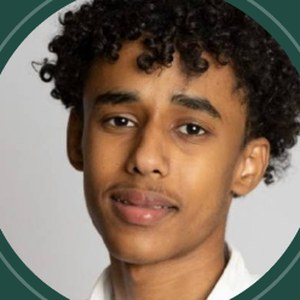
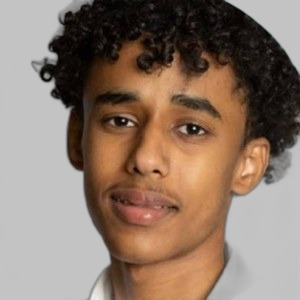
Accueil : carte de profil et globe 3D retravaillé
- Photo nettoyée (plus de cercle vert) dans une carte de profil
  qui s'incline vers la souris, avec un reflet de lumière
- Globe : profondeur réelle (tri avant/arrière), anneaux de latitude,
  serveurs qui émettent une onde, paquets avec traînée
- Le globe peut être attrapé et lancé à la souris ou au doigt (inertie)

Claude-Session: https://claude.ai/code/session_012Wnei2QmJHcgeZpE7yB1x4

diff --git a/script.js b/script.js
@@ -288,116 +288,172 @@ window.addEventListener("scroll", function () {
 }, { passive: true });
 
 /* =====================================================================
-   15. GLOBE RÉSEAU EN 3D
-   Des points répartis sur une sphère (les équipements), reliés à leurs
-   voisins (les câbles). Des paquets de données circulent sur les liens.
-   La sphère tourne seule, suit la souris et accélère quand on scrolle.
-   Principe 3D : on fait tourner chaque point (x, y, z) avec un peu de
-   trigonométrie, puis on le projette en 2D (perspective : plus un point
-   est loin, plus il est petit et proche du centre).
+   15. SCÈNE 3D DE L'ACCUEIL
+   - Un globe réseau (équipements reliés par des câbles) dessiné en 3D :
+     les points et les liens sont triés par profondeur, plus petits et plus
+     pâles à l'arrière, plus nets et plus lumineux à l'avant.
+   - On peut l'attraper à la souris (ou au doigt) et le lancer : il garde
+     son élan puis ralentit (inertie).
+   - Quelques "serveurs" plus gros émettent une onde, des paquets de
+     données circulent sur les liens en laissant une traînée.
+   - La carte de profil s'incline vers la souris (parallaxe) : la carte
+     bouge plus que le globe, ce qui donne l'impression de profondeur.
+   Principe : on fait tourner chaque point (x, y, z) avec un peu de
+   trigonométrie, puis on le projette en 2D (perspective).
    ===================================================================== */
 (function () {
   const zone = document.getElementById("globe");
-  const toileArriere = zone.querySelector(".globe-arriere");
-  const ctxA = toileArriere.getContext("2d");
-  const ctxV = ctxA;   // un seul canvas : tout le globe reste derrière le portrait
-  const couleur = getComputedStyle(document.documentElement).getPropertyValue("--indigo").trim();
+  const toile = zone.querySelector(".globe-arriere");
+  const ctx = toile.getContext("2d");
+  const carte = zone.querySelector(".profil");
+  const css = getComputedStyle(document.documentElement);
+  let couleur = css.getPropertyValue("--indigo").trim();
+  let couleur2 = css.getPropertyValue("--indigo-clair").trim();
+  window.matchMedia("(prefers-color-scheme: dark)").addEventListener("change", function () {
+    const c = getComputedStyle(document.documentElement);
+    couleur = c.getPropertyValue("--indigo").trim(); couleur2 = c.getPropertyValue("--indigo-clair").trim();
+  });
 
-  // 1. Points sur la sphère (répartition "spirale de Fibonacci" : régulière, sans trou)
-  const NB = 80, points = [];
+  // 1. Points sur la sphère (spirale de Fibonacci : répartition régulière)
+  const NB = 110, points = [];
   for (let i = 0; i < NB; i++) {
-    const y = 1 - (i / (NB - 1)) * 2;
-    const r = Math.sqrt(1 - y * y);
-    const a = i * Math.PI * (3 - Math.sqrt(5));
-    points.push({ x: Math.cos(a) * r, y: y, z: Math.sin(a) * r });
+    const y = 1 - (i / (NB - 1)) * 2, r = Math.sqrt(1 - y * y), a = i * Math.PI * (3 - Math.sqrt(5));
+    points.push({ x: Math.cos(a) * r, y: y, z: Math.sin(a) * r, serveur: i % 13 === 0, phase: Math.random() * 6 });
   }
-
-  // 2. Liens : chaque point est relié à ses 3 voisins les plus proches
+  // 2. Liens : chaque point relié à ses 3 voisins les plus proches
   const liens = [];
   points.forEach(function (p, i) {
     points.map((q, j) => ({ j: j, d: (p.x - q.x) ** 2 + (p.y - q.y) ** 2 + (p.z - q.z) ** 2 }))
       .filter(o => o.j !== i).sort((a, b) => a.d - b.d).slice(0, 3)
-      .forEach(function (o) { if (!liens.some(l => l[0] === o.j && l[1] === i)) liens.push([i, o.j]); });
+      .forEach(function (o) { if (!liens.some(l => (l[0] === o.j && l[1] === i) || (l[0] === i && l[1] === o.j))) liens.push([i, o.j]); });
   });
+  // 3. Paquets de données
+  const paquets = Array.from({ length: 18 }, () => ({ lien: Math.floor(Math.random() * liens.length), t: Math.random(), v: 0.006 + Math.random() * 0.01 }));
 
-  // 3. Paquets de données qui voyagent sur les liens
-  const paquets = Array.from({ length: 14 }, () => ({ lien: Math.floor(Math.random() * liens.length), t: Math.random() }));
-
-  let taille = 0, rotY = 0, rotX = -0.3, cibleX = -0.3, cibleY = 0, visible = true, dernierScroll = window.scrollY;
+  let taille = 0, rotX = -0.35, rotY = 0, vitX = 0, vitY = 0.0035;   // angles et vitesses de rotation
+  let glisse = false, dx0 = 0, dy0 = 0, visible = true, temps = 0;
+  let tiltX = 0, tiltY = 0, cibleTX = 0, cibleTY = 0;                  // inclinaison de la carte
 
   function dimensionner() {
     const dpr = Math.min(window.devicePixelRatio || 1, 2);
-    taille = zone.clientWidth;
-    toileArriere.width = taille * dpr; toileArriere.height = taille * dpr;
-    ctxA.setTransform(dpr, 0, 0, dpr, 0, 0);
+    taille = toile.clientWidth;
+    toile.width = taille * dpr; toile.height = taille * dpr;
+    ctx.setTransform(dpr, 0, 0, dpr, 0, 0);
+  }
+  function projeter(p) {
+    const cy = Math.cos(rotY), sy = Math.sin(rotY), cx = Math.cos(rotX), sx = Math.sin(rotX);
+    const x1 = p.x * cy - p.z * sy, z1 = p.x * sy + p.z * cy;
+    const y2 = p.y * cx - z1 * sx, z2 = p.y * sx + z1 * cx;
+    const persp = 2.6 / (2.6 + z2), rayon = taille * 0.4;
+    // profondeur : 0 = tout à l'arrière, 1 = tout à l'avant
+    return { x: taille / 2 + x1 * rayon * persp, y: taille / 2 + y2 * rayon * persp, z: z2, persp: persp, prof: (1 - z2) / 2 };
   }
 
-  // Rotation 3D puis projection en perspective
-  function projeter(p) {
-    let x = p.x * Math.cos(rotY) - p.z * Math.sin(rotY);
-    let z = p.x * Math.sin(rotY) + p.z * Math.cos(rotY);
-    let y = p.y * Math.cos(rotX) - z * Math.sin(rotX);
-    z = p.y * Math.sin(rotX) + z * Math.cos(rotX);
-    const rayon = taille * 0.46;
-    const persp = 3 / (3 + z);              // perspective
-    return { x: taille / 2 + x * rayon * persp, y: taille / 2 + y * rayon * persp, z: z, persp: persp };
+  // Ellipse d'un "parallèle" (anneau de latitude) pour donner du volume
+  function anneau(lat) {
+    const pts = [];
+    for (let k = 0; k <= 64; k++) {
+      const a = (k / 64) * Math.PI * 2, r = Math.cos(lat);
+      pts.push(projeter({ x: Math.cos(a) * r, y: Math.sin(lat), z: Math.sin(a) * r }));
+    }
+    return pts;
   }
 
   function dessiner() {
+    temps += 1;
     if (visible) {
-      // La sphère tourne seule + un peu plus vite quand on scrolle
-      const y = window.scrollY;
-      rotY += 0.003 + Math.abs(y - dernierScroll) * 0.0008;
-      dernierScroll = y;
-      rotX += (cibleX - rotX) * 0.05;
-      rotY += cibleY * 0.02;
+      // rotation : élan + retour doux vers la vitesse de croisière
+      if (!glisse) { vitY += (0.0035 - vitY) * 0.02; vitX += (0 - vitX) * 0.04; rotX += ((-0.35) - rotX) * 0.01; }
+      rotY += vitY; rotX += vitX;
+      rotX = Math.max(-1.2, Math.min(1.2, rotX));
 
+      ctx.clearRect(0, 0, taille, taille);
       const proj = points.map(projeter);
-      ctxA.clearRect(0, 0, taille, taille);
 
-      // z > 0 : point à l'arrière (dessiné derrière la photo) ; z < 0 : à l'avant
-      liens.forEach(function (l) {
-        const a = proj[l[0]], b = proj[l[1]];
-        const ctx = (a.z + b.z) / 2 > 0 ? ctxA : ctxV;
-        ctx.strokeStyle = couleur;
-        ctx.globalAlpha = 0.06 + (1 - (a.z + b.z) / 2) * 0.1;
-        ctx.lineWidth = 1;
-        ctx.beginPath(); ctx.moveTo(a.x, a.y); ctx.lineTo(b.x, b.y); ctx.stroke();
+      // Anneaux de latitude très discrets
+      [-0.6, 0, 0.6].forEach(function (lat) {
+        const pts = anneau(lat);
+        ctx.strokeStyle = couleur; ctx.lineWidth = 1;
+        for (let k = 0; k < pts.length - 1; k++) {
+          ctx.globalAlpha = 0.03 + pts[k].prof * 0.08;
+          ctx.beginPath(); ctx.moveTo(pts[k].x, pts[k].y); ctx.lineTo(pts[k + 1].x, pts[k + 1].y); ctx.stroke();
+        }
       });
-      proj.forEach(function (p) {
-        const ctx = p.z > 0 ? ctxA : ctxV;
-        ctx.globalAlpha = 0.2 + (1 - p.z) * 0.2;
-        ctx.fillStyle = couleur;
-        ctx.beginPath(); ctx.arc(p.x, p.y, 2.2 * p.persp, 0, Math.PI * 2); ctx.fill();
+
+      // Liens, de l'arrière vers l'avant
+      liens.map(l => ({ a: proj[l[0]], b: proj[l[1]] }))
+        .sort((u, v) => (v.a.z + v.b.z) - (u.a.z + u.b.z))
+        .forEach(function (l) {
+          const prof = (l.a.prof + l.b.prof) / 2;
+          ctx.globalAlpha = 0.04 + prof * prof * 0.4;
+          ctx.strokeStyle = couleur; ctx.lineWidth = 0.6 + prof * 0.8;
+          ctx.beginPath(); ctx.moveTo(l.a.x, l.a.y); ctx.lineTo(l.b.x, l.b.y); ctx.stroke();
+        });
+
+      // Points (équipements) et serveurs avec une onde
+      proj.map((p, i) => ({ p: p, src: points[i] })).sort((u, v) => v.p.z - u.p.z).forEach(function (o) {
+        const p = o.p, r = (o.src.serveur ? 3.4 : 1.8) * p.persp;
+        ctx.globalAlpha = 0.15 + p.prof * 0.85;
+        ctx.fillStyle = p.prof > 0.6 ? couleur2 : couleur;
+        ctx.beginPath(); ctx.arc(p.x, p.y, r, 0, Math.PI * 2); ctx.fill();
+        if (o.src.serveur && p.prof > 0.45) {
+          const onde = ((temps * 0.012 + o.src.phase) % 1);
+          ctx.globalAlpha = (1 - onde) * 0.5 * p.prof;
+          ctx.strokeStyle = couleur2; ctx.lineWidth = 1;
+          ctx.beginPath(); ctx.arc(p.x, p.y, r + onde * 16, 0, Math.PI * 2); ctx.stroke();
+        }
       });
-      // Paquets : un petit point lumineux qui avance le long d'un lien
+
+      // Paquets avec traînée
       paquets.forEach(function (pq) {
-        pq.t += 0.012;
+        pq.t += pq.v;
         if (pq.t > 1) { pq.t = 0; pq.lien = Math.floor(Math.random() * liens.length); }
         const a = proj[liens[pq.lien][0]], b = proj[liens[pq.lien][1]];
-        const x = a.x + (b.x - a.x) * pq.t, yy = a.y + (b.y - a.y) * pq.t, z = a.z + (b.z - a.z) * pq.t;
-        const ctx = z > 0 ? ctxA : ctxV;
-        ctx.globalAlpha = 1;
-        ctx.fillStyle = couleur;
-        ctx.shadowColor = couleur; ctx.shadowBlur = 10;
-        ctx.beginPath(); ctx.arc(x, yy, 2.6, 0, Math.PI * 2); ctx.fill();
+        const prof = a.prof + (b.prof - a.prof) * pq.t;
+        if (prof < 0.35) return;                      // on ne montre que ceux de l'avant
+        const t0 = Math.max(0, pq.t - 0.25);
+        const grad = ctx.createLinearGradient(a.x + (b.x - a.x) * t0, a.y + (b.y - a.y) * t0, a.x + (b.x - a.x) * pq.t, a.y + (b.y - a.y) * pq.t);
+        grad.addColorStop(0, "transparent"); grad.addColorStop(1, couleur2);
+        ctx.globalAlpha = prof; ctx.strokeStyle = grad; ctx.lineWidth = 2;
+        ctx.beginPath(); ctx.moveTo(a.x + (b.x - a.x) * t0, a.y + (b.y - a.y) * t0); ctx.lineTo(a.x + (b.x - a.x) * pq.t, a.y + (b.y - a.y) * pq.t); ctx.stroke();
+        ctx.fillStyle = couleur2; ctx.shadowColor = couleur2; ctx.shadowBlur = 12;
+        ctx.beginPath(); ctx.arc(a.x + (b.x - a.x) * pq.t, a.y + (b.y - a.y) * pq.t, 2.4, 0, Math.PI * 2); ctx.fill();
         ctx.shadowBlur = 0;
       });
+      ctx.globalAlpha = 1;
+    }
+
+    // Inclinaison douce de la carte de profil
+    if (carte) {
+      tiltX += (cibleTX - tiltX) * 0.08; tiltY += (cibleTY - tiltY) * 0.08;
+      carte.style.setProperty("--rx", tiltX.toFixed(2) + "deg");
+      carte.style.setProperty("--ry", tiltY.toFixed(2) + "deg");
+      carte.style.setProperty("--gx", (50 + tiltY * 6).toFixed(1) + "%");
+      carte.style.setProperty("--gy", (50 - tiltX * 6).toFixed(1) + "%");
     }
     if (!moinsAnimations) requestAnimationFrame(dessiner);
   }
 
-  // La souris incline le globe
+  // Attraper et lancer le globe (souris ou doigt)
+  zone.addEventListener("pointerdown", function (e) {
+    if (e.target.closest(".profil")) return;
+    glisse = true; dx0 = e.clientX; dy0 = e.clientY; zone.setPointerCapture(e.pointerId); zone.classList.add("attrape");
+  });
   zone.addEventListener("pointermove", function (e) {
     const r = zone.getBoundingClientRect();
-    cibleY = ((e.clientX - r.left) / r.width - 0.5) * 0.6;
-    cibleX = -0.3 + ((e.clientY - r.top) / r.height - 0.5) * 0.8;
+    const nx = (e.clientX - r.left) / r.width - 0.5, ny = (e.clientY - r.top) / r.height - 0.5;
+    cibleTY = nx * 14; cibleTX = -ny * 14;          // la carte suit la souris (max ±7°)
+    if (!glisse) return;
+    vitY = (e.clientX - dx0) * 0.0025; vitX = (e.clientY - dy0) * 0.0025;
+    dx0 = e.clientX; dy0 = e.clientY;
   });
-  zone.addEventListener("pointerleave", function () { cibleY = 0; cibleX = -0.3; });
+  function lacher() { glisse = false; zone.classList.remove("attrape"); }
+  zone.addEventListener("pointerup", lacher);
+  zone.addEventListener("pointercancel", lacher);
+  zone.addEventListener("pointerleave", function () { cibleTX = 0; cibleTY = 0; });
 
-  // On arrête de dessiner quand le globe n'est plus à l'écran (économie de batterie)
+  // Pause quand l'accueil n'est plus à l'écran (économie de batterie)
   new IntersectionObserver(e => visible = e[0].isIntersecting).observe(zone);
-
   dimensionner();
   window.addEventListener("resize", dimensionner);
   dessiner();

diff --git a/style.css b/style.css
@@ -166,54 +166,47 @@ img { max-width: 100%; display: block; }
 @keyframes motIn { to { opacity: 1; transform: none; filter: none; } }
 .intro { font-size: 20px; line-height: 1.45; color: var(--ardoise); max-width: 56ch; margin-top: 24px; }
 .actions { display: flex; flex-wrap: wrap; gap: 8px; margin-top: 32px; }
-/* Portrait : arche + photo détourée sur fond indigo, globe réseau en décor derrière */
-.hero { grid-template-columns: minmax(0, 1fr) 420px; }
-.portrait-zone { position: relative; width: 420px; aspect-ratio: 1; margin: 0; display: grid; place-items: center; }
+/* Scène 3D : globe réseau en décor + carte de profil inclinable */
+.hero { grid-template-columns: minmax(0, 1fr) 440px; }
+.portrait-zone {
+  position: relative; width: 440px; aspect-ratio: 1; margin: 0;
+  display: grid; place-items: center; perspective: 900px;
+  cursor: grab; touch-action: pan-y; user-select: none;
+}
+.portrait-zone.attrape { cursor: grabbing; }
 .globe-arriere {
-  position: absolute; inset: -8%; width: 116%; height: 116%; z-index: 0; pointer-events: none;
-  -webkit-mask: radial-gradient(closest-side, #000 60%, transparent);
-          mask: radial-gradient(closest-side, #000 60%, transparent);
+  position: absolute; inset: -6%; width: 112%; height: 112%; z-index: 0; pointer-events: none;
+  -webkit-mask: radial-gradient(closest-side, #000 70%, transparent);
+          mask: radial-gradient(closest-side, #000 70%, transparent);
 }
-.arche {
-  position: relative; z-index: 1; width: 64%; aspect-ratio: 4 / 5; overflow: hidden;
-  border-radius: 999px 999px var(--rayon) var(--rayon);
-  /* Fond de la photo : dégradé aux couleurs du site, à la place du gris de studio */
-  background:
-    radial-gradient(120% 80% at 50% 25%, color-mix(in srgb, var(--indigo-clair) 38%, transparent), transparent 70%),
-    linear-gradient(180deg, color-mix(in srgb, var(--indigo) 30%, var(--bande)), var(--bande));
+.profil {
+  position: relative; z-index: 1; width: 58%; cursor: default;
+  padding: 10px; border-radius: 6px;
+  background: color-mix(in srgb, var(--bande) 88%, transparent);
+  backdrop-filter: blur(8px); -webkit-backdrop-filter: blur(8px);
   border: 1px solid var(--givre);
-  box-shadow: 0 30px 60px -30px color-mix(in srgb, var(--indigo) 55%, transparent);
-  transition: transform .6s var(--courbe);
+  box-shadow: 0 40px 80px -40px color-mix(in srgb, var(--indigo) 60%, transparent), 0 2px 6px rgba(6, 27, 49, .08);
+  transform: rotateX(var(--rx, 0deg)) rotateY(var(--ry, 0deg)) rotateZ(-2deg);
+  transform-style: preserve-3d;
 }
-/* Seconde arche en simple trait, décalée : donne de la profondeur */
-.portrait-zone::before {
-  content: ""; position: absolute; z-index: 0; width: 64%; aspect-ratio: 4 / 5;
-  border-radius: 999px 999px var(--rayon) var(--rayon); border: 1px solid var(--lavande);
-  translate: 14px 14px; opacity: .7; transition: translate .6s var(--courbe);
+/* Reflet de lumière qui glisse sur la carte selon l'inclinaison */
+.profil::after {
+  content: ""; position: absolute; inset: 0; border-radius: inherit; pointer-events: none;
+  background: radial-gradient(circle at var(--gx, 50%) var(--gy, 30%), rgba(255, 255, 255, .14), transparent 55%);
 }
-.portrait {
-  /* La photo remplit l'arche : son bord haut se cache dans la courbe de l'arche */
-  position: absolute; inset: 0; width: 100%; height: 100%;
-  object-fit: cover; object-position: 50% 0;
-  transform-origin: 50% 100%; transition: scale .8s var(--courbe);
-}
-.portrait-zone:hover .arche { transform: translateY(-6px); }
-.portrait-zone:hover::before { translate: 8px 8px; }
-.portrait-zone:hover .portrait { scale: 1.04; }
-/* Petite pastille "Disponible", posée sur le bas de l'arche */
-.statut {
-  position: absolute; z-index: 2; left: 50%; bottom: 13%; translate: -50% 0;
-  display: inline-flex; align-items: center; gap: 8px; white-space: nowrap;
-  padding: 8px 14px; border-radius: 9999px; font-size: 13px; font-weight: 400;
-  background: color-mix(in srgb, var(--fond) 85%, transparent);
-  backdrop-filter: blur(10px); -webkit-backdrop-filter: blur(10px);
-  border: 1px solid var(--givre); color: var(--encre);
-}
-.statut i { width: 7px; height: 7px; border-radius: 50%; background: #22c55e; animation: pouls 2.4s infinite; }
+.profil-photo { aspect-ratio: 1; overflow: hidden; border-radius: 3px; transform: translateZ(20px); }
+.profil-photo img { width: 100%; height: 100%; object-fit: cover; transition: scale .8s var(--courbe); }
+.profil:hover .profil-photo img { scale: 1.04; }
+.profil-texte { display: grid; gap: 2px; padding: 14px 6px 6px; transform: translateZ(30px); }
+.profil-texte b { font-weight: 400; font-size: 18px; letter-spacing: -0.01em; }
+.profil-texte span { font-size: 14px; color: var(--ardoise); }
+.profil-texte .dispo { display: flex; align-items: center; gap: 8px; margin-top: 8px; color: var(--encre); }
+.dispo i { width: 7px; height: 7px; border-radius: 50%; background: #22c55e; animation: pouls 2.4s infinite; }
 @keyframes pouls { 0% { box-shadow: 0 0 0 0 #22c55e80; } 70%, 100% { box-shadow: 0 0 0 7px #22c55e00; } }
 @media (max-width: 960px) {
   .hero { grid-template-columns: 1fr; gap: 24px; padding-block: 40px; }
-  .portrait-zone { width: min(340px, 86vw); order: -1; justify-self: center; }
+  .portrait-zone { width: min(360px, 90vw); order: -1; justify-self: center; }
+  .profil { width: 66%; }
   .hero::before { width: 380px; height: 380px; left: -120px; }
 }
 

diff --git a/index.html b/index.html
@@ -8,7 +8,7 @@
   <link rel="preconnect" href="https://fonts.googleapis.com">
   <link rel="preconnect" href="https://fonts.gstatic.com" crossorigin>
   <link rel="stylesheet" href="https://fonts.googleapis.com/css2?family=Inter+Tight:wght@300;400&family=JetBrains+Mono:wght@400&display=swap">
-  <link rel="stylesheet" href="style.css?v=20261117b">
+  <link rel="stylesheet" href="style.css?v=20261117c">
 </head>
 <body>
 
@@ -43,14 +43,18 @@
           <a class="btn btn-ghost" href="cv-issak-dirir.pdf" target="_blank" rel="noopener">Mon CV (PDF)</a>
         </div>
       </div>
-      <!-- Portrait : photo détourée posée sur un fond aux couleurs du site, dans une arche.
-           Le globe réseau (script.js) tourne DERRIÈRE, comme un décor : il ne passe jamais sur le visage. -->
+      <!-- Scène 3D : globe réseau (script.js) derrière une carte de profil qui s'incline vers la souris.
+           Le globe peut être attrapé et lancé à la souris ou au doigt. -->
       <figure class="portrait-zone" id="globe">
         <canvas class="globe-arriere" aria-hidden="true"></canvas>
-        <div class="arche">
-          <img class="portrait" src="photo-issak-detouree.webp" width="300" height="300" alt="Photo d'Issak Dirir">
+        <div class="profil">
+          <div class="profil-photo"><img src="photo-issak.jpg" width="300" height="300" alt="Photo d'Issak Dirir"></div>
+          <figcaption class="profil-texte">
+            <b>Issak Dirir</b>
+            <span>Technicien systèmes et réseaux</span>
+            <span class="dispo"><i aria-hidden="true"></i>Disponible · Torcy (77)</span>
+          </figcaption>
         </div>
-        <figcaption class="statut"><i aria-hidden="true"></i>Disponible · Torcy (77)</figcaption>
       </figure>
     </section>
 
@@ -218,7 +222,7 @@
 
   <!-- projets.js doit être chargé AVANT script.js, qui utilise ses données -->
   <script src="projets.js?v=20261117"></script>
-  <script src="script.js?v=20261117b"></script>
+  <script src="script.js?v=20261117c"></script>
 
 </body>
 </html>
